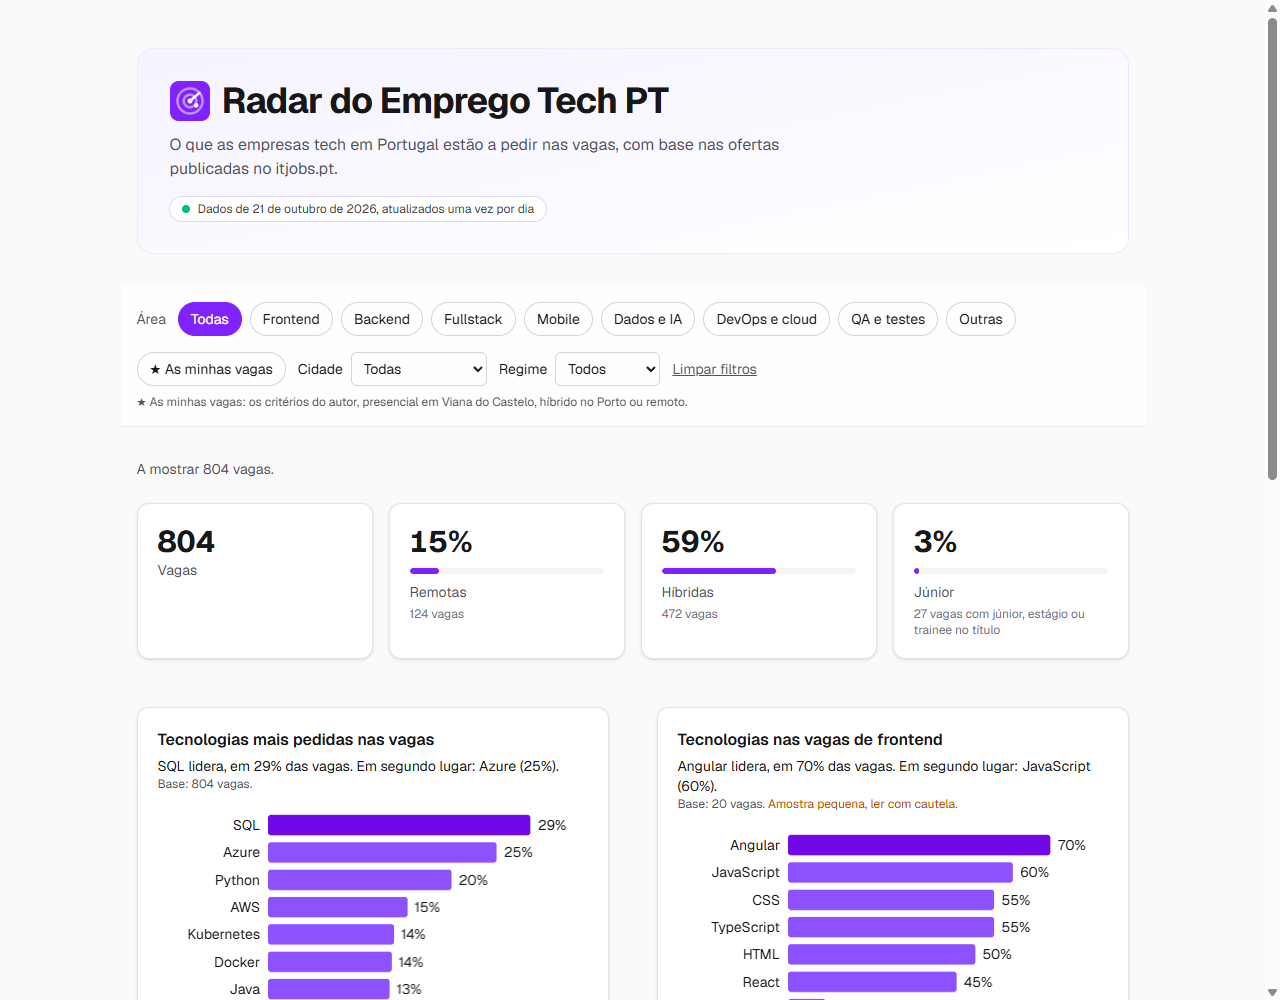
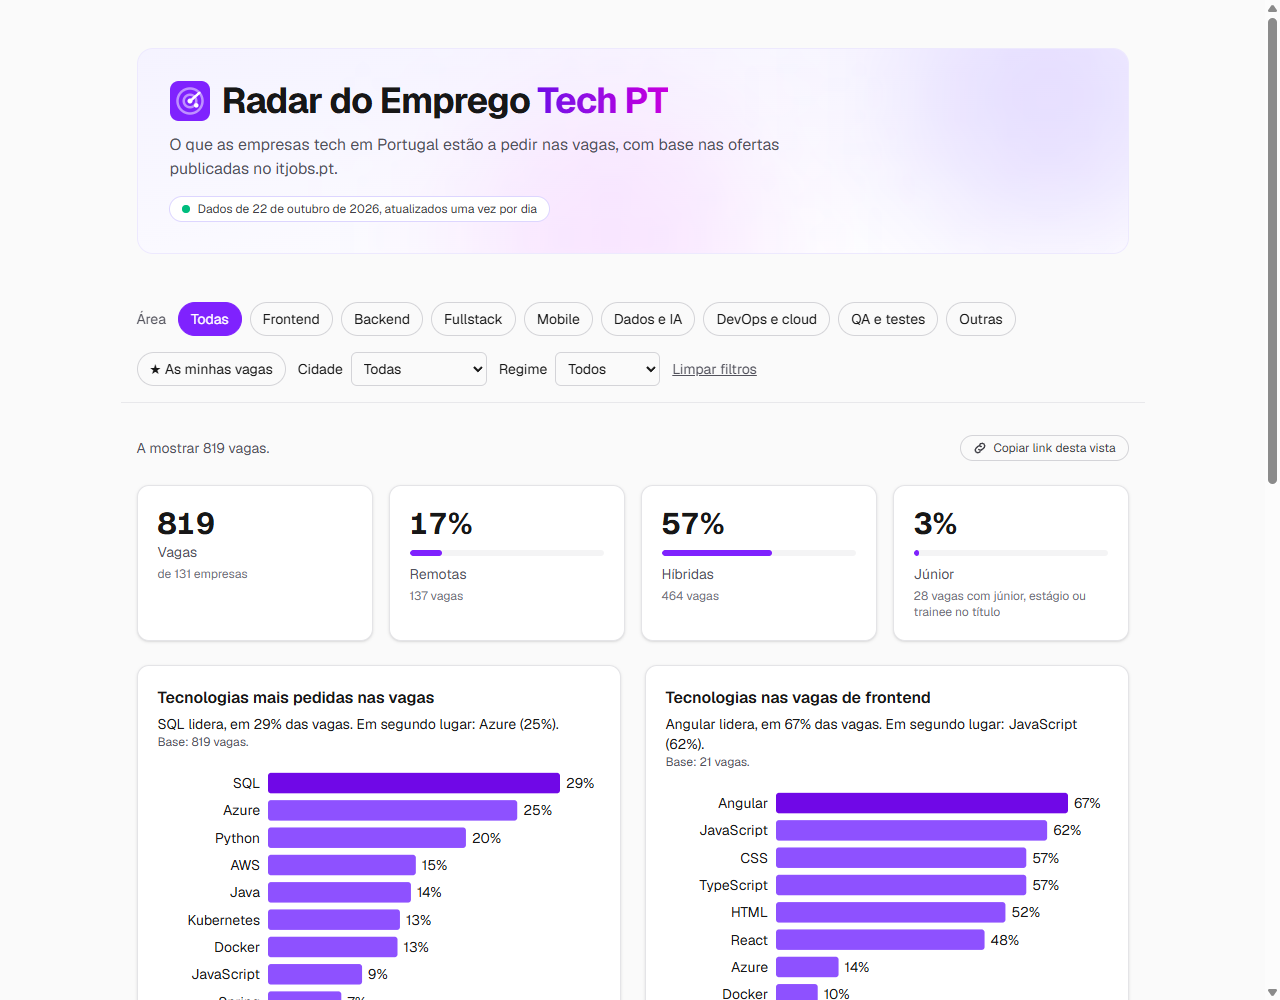
README e prints com o explorador de tecnologias

diff --git a/README.md b/README.md
@@ -9,15 +9,17 @@ remote, hybrid or on-site. It uses real, daily-updated data from the [itjobs.pt]
 ![Dashboard on desktop](docs/screenshot-desktop.png)
 
 <p align="center">
-  <img src="docs/screenshot-mobile.png" alt="Dashboard on a phone, dark mode, filtered to frontend jobs" width="280">
+  <img src="docs/screenshot-mobile.png" alt="Technology explorer on a phone, dark mode" width="280">
 </p>
 
 ## What it does
 
 - Filters by area (frontend, backend, fullstack, mobile, data, DevOps, QA), city and work model, plus a
-  shortcut for my own criteria. Filters live in the URL, so any view can be shared as a link.
-- Every chart opens with a one-line takeaway written from the data ("SQL lidera, em 29% das vagas…"),
-  shows percentages with the number of jobs behind them, and warns when the sample is too small to trust.
+  shortcut for my own criteria. Filters live in the URL, so any view can be shared with one click.
+- Every chart opens with a one-line takeaway written from the data ("SQL lidera, em 29% das vagas…") and
+  shows percentages with the number of jobs behind them.
+- A technology explorer: pick a technology, or click its bar, to see what the same job ads also ask for
+  ("Quem pede React também pede JavaScript em 54% dos casos"), with a link to those jobs on itjobs.pt.
 - A "how the data is handled" section explains the rules and their limits.
 
 ## How it works
